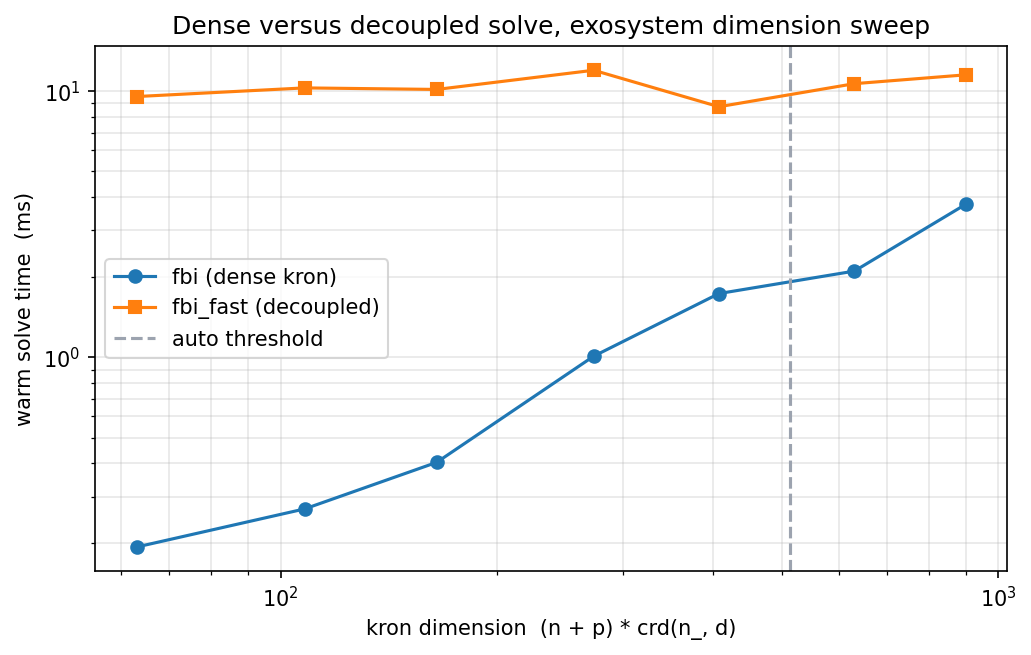
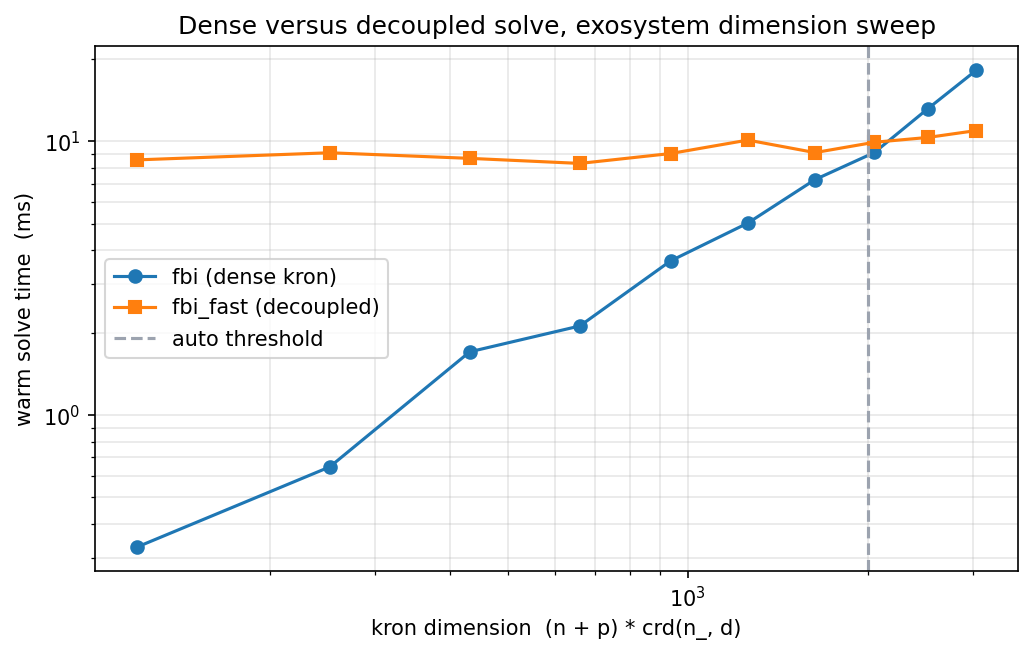
fixed doc and readme

diff --git a/make_figures.py b/make_figures.py
@@ -88,24 +88,25 @@ def build_pendulum():
     return SimpleNamespace(fsys=fsys, fexo=fexo, hsys=hsys, n=n, m=m, p=p,
                            n_=n_, d=d, nsum=nsum, z0=z0, x_0=x_0)
 
-#Scalable nilpotent system, small fixed plant with a shift chain exosystem
+#Scalable nilpotent system, fixed plant with a shift chain exosystem
 def build_synth_chain(n_, d):
-    n, m, p = 2, 1, 1
+    n, m, p = 8, 4, 4
     nsum = n + m + n_
-    A = jnp.array([[0.0, 1.0], [-1.0, -0.5]])
-    B = jnp.array([[0.0], [1.0]])
-    C = jnp.array([[1.0, 0.0]])
+    A = 2.0 * jnp.eye(n)
+    B = jnp.concatenate([jnp.eye(m), jnp.zeros((n - m, m))], axis=0)
+    C = jnp.concatenate([jnp.eye(p), jnp.zeros((p, n - p))], axis=1)
+    E = jnp.zeros((n, n_)).at[0, 0].set(1.0)
 
     def fsys(z):
         x = z[:n]; u = z[n:n + m]; w = z[n + m:]
-        return A @ x + B @ u + jnp.array([0.0, w[0]])
+        return A @ x + B @ u + E @ w
 
     def fexo(w):
         return jnp.concatenate([w[1:], jnp.zeros(1)])
 
     def hsys(z):
         x = z[:n]; w = z[n + m:]
-        return C @ x - jnp.array([w[0]])
+        return C @ x - jnp.concatenate([w[:1], jnp.zeros(p - 1)])
 
     return SimpleNamespace(fsys=fsys, fexo=fexo, hsys=hsys, n=n, m=m, p=p,
                            n_=n_, d=d, nsum=nsum, z0=jnp.zeros(nsum), x_0=jnp.zeros(n_))
@@ -262,7 +263,7 @@ def fig_residual_vs_distance():
 
 #Figure 4, solver time versus problem size on one nilpotent family
 def fig_solver_crossover():
-    n_list = [6, 8, 10, 13, 16, 20, 24]
+    n_list = [4, 6, 8, 10, 12, 14, 16, 18, 20, 22]
     d = 2
     kd, t_fbi, t_fast = [], [], []
     for n_ in n_list:
@@ -274,7 +275,7 @@ def fig_solver_crossover():
         h = jax.block_until_ready(tay_h(s.z0))
         fe = jax.block_until_ready(tay_e(s.x_0))
         solver = FBIFast(s.n, s.m, s.p, s.n_, d, fixed=True)
-        reps = 20 if n_ <= 16 else 8
+        reps = 20 if n_ <= 12 else 8
         try:
             tf = _time(lambda: fbi(f, h, fe, s.n, s.m, s.p, s.n_, d), reps)
             tn = _time(lambda: solver.solve(f, h, fe)[:2], reps)
@@ -287,7 +288,7 @@ def fig_solver_crossover():
     plt.figure(figsize=(7, 4.5))
     plt.loglog(kd, t_fbi, "-o", label="fbi (dense kron)")
     plt.loglog(kd, t_fast, "-s", label="fbi_fast (decoupled)")
-    plt.axvline(512, color="#9ca3af", ls="--", label="auto threshold")
+    plt.axvline(20e2, color="#9ca3af", ls="--", label="auto threshold")
     plt.xlabel("kron dimension  (n + p) * crd(n_, d)")
     plt.ylabel("warm solve time  (ms)")
     plt.title("Dense versus decoupled solve, exosystem dimension sweep")

diff --git a/src/NSTJAX/NSTJAX_suite/nstjax.py b/src/NSTJAX/NSTJAX_suite/nstjax.py
@@ -16,7 +16,7 @@ class NSTJAX:
     #User provides the system, then warm starts, then solves at any operating point
     def __init__(self, fsys, fexo, hsys, n, m, p, n_, d,
                  solver="auto", fixed=True, branch="auto", check="off",
-                 auto_threshold=512, reshape=True, store=True, verbose=False):
+                 auto_threshold=20e2, reshape=True, store=True, verbose=False):
         self.fsys, self.fexo, self.hsys = fsys, fexo, hsys
         self.n, self.m, self.p, self.n_, self.d = n, m, p, n_, d
         self.nsum = n + m + n_

diff --git a/README.md b/README.md
@@ -54,9 +54,9 @@ from NSTJAX.NSTJAX_suite.nstjax import NSTJAX
 n, m, p, n_, d = 10, 4, 24, 4, 2
 nsum = n + m + n_
 
-#fsys and hsys take z = concat([x, u, w]); fexo takes the exosystem state w
+#fsys and hsys take z = concat([x, u, x_]); fexo takes the exosystem state w
 def fsys(z): ...
-def fexo(w): ...
+def fexo(x_): ...
 def hsys(z): ...
 
 #Operating point
@@ -71,33 +71,90 @@ th, la = nst.compute_fbi(z0, x_0)
 
 #Evaluate the manifold and feedforward at a batch of exosystem samples
 W = jnp.zeros((256, n_))
-pi = nst.compute_theta(W)
-c = nst.compute_lambda(W)
+tracking_manifold = nst.compute_theta(W) #(samples x n)
+feedforward = nst.compute_lambda(W)      #(samples x m)
 ```
 
 The auto solver routes small systems to the dense solve and large ones to the decoupled solve. The first call compiles, later calls reuse the cached kernels.
 
 ---
 
+## Performance
+
+After warmup the full step, coefficients, solve and inference together, runs at about 12 ms for the drone system with its six derivative exosystem (10 states, 24 exostates, 4 inputs, 4 outputs). This is performed on a laptop with Ryzen 7 8845hs CPU, 32GB RAM, and NVIDIA GeForce RTX 4060 Laptop with 8GB VRAM.
+
+<p align="center">
+  <img src="docs/figures/timing_breakdown.png" width="840" alt="Per step timing breakdown and inference throughput">
+</p>
+
+<p align="center"><em>Per step cost split into coefficients, FBI solve and inference, with inference throughput against batch size.</em></p>
+
+---
+
+## Examples
+
+The repository ships runnable examples for a drone and a double pendulum, at the high level `NSTJAX` interface and a lower level direct solve, plus a world model example that learns the plant online and re-solves FBI on it.
+
+<p align="center">
+  <img src="docs/figures/pendulum_phase.png" width="840" alt="Double pendulum nominal manifold and tracking">
+</p>
+
+<p align="center"><em>Double pendulum: the nominal manifold phase portrait, and the reference tracked on the manifold.</em></p>
+
+### World model learning with FBI
+
+`example_wm_fbi.py` closes the loop around a learned plant. The true pendulum is unknown; the controller starts from a deliberately wrong nominal prior and corrects it with a neural residual, a neural-ODE world model `f_hat(x, u) = f_nominal(x, u) + MLP(x, u)`. Each round runs the same three steps:
+
+1. **Solve.** Taylor expand the current `f_hat` at the operating point and run the FBI solve to get the manifold `theta` and feedforward `lambda` for the learned model, plus a feedback gain by pole placement on its linearization.
+2. **Roll out.** Drive the true system in closed loop with feedforward plus feedback plus a decaying dither, and collect the on-policy transitions.
+3. **Learn.** Aggregate the transitions across rounds and fit the residual MLP by matching a one step RK4 prediction to the next state.
+
+As the world model improves, the FBI solution computed on it approaches the one computed on the true plant, so the learned manifold and feedforward converge to the oracle and the closed loop tracking error drops to the oracle floor.
+
+<p align="center">
+  <img src="docs/figures/world_model_convergence.png" width="840" alt="World model FBI convergence">
+</p>
+
+<p align="center"><em>World model learning: the learned manifold and feedforward errors against the true FBI solution, and the closed loop tracking error converging to the oracle bound.</em></p>
+
+---
+
+## Solution Validation Against Original NST
+
+The solve is cross checked against the original MATLAB NST values when reference arrays are present (`test_fbi_jax.py`), and against the dense Kronecker reference for the decoupled kernels (`test_fbi_fast.py`). The FBI residual measures how well the truncated polynomial solution satisfies the regulator equations at the operating point.
+
+<p align="center">
+  <img src="docs/figures/matlab_error.png" width="840" alt="Relative error against the MATLAB reference">
+</p>
+
+<p align="center"><em>Per coefficient relative error of the float32 solve against the MATLAB NST reference.</em></p>
+
+---
+
+# Additional Information
+
 ## Background
 
 The library targets the **output regulation** problem. A plant, an exosystem driving the reference, and an error output
 
-$$\dot{x} = f(x, u, x_-), \qquad \dot{x}_- = s(x_-), \qquad e = h(x, u, x_-)$$
+$$\dot{x} = f(x, u, \bar{x}), \qquad \dot{\bar{x}} = \bar{f}(\bar{x}), \qquad e = h(x, u, \bar{x})$$
 
-are given, and the goal is to drive the error to zero. The Francis Byrnes Isidori (FBI) regulator equations ask for a manifold `x = theta(x_)` and a feedforward `u = lambda(x_)` satisfying
+are given, and the goal is to drive the error to zero. The Francis Byrnes Isidori (FBI) regulator equations ask for a manifold $x=\theta(\bar{x})$ and a feedforward $u=\lambda(\bar{x})$ satisfying
 
-$$\frac{\partial\, \theta}{\partial x_-}\, s(x_-) = f\big(\theta(x_-), \lambda(x_-), x_-\big), \qquad 0 = h\big(\theta(x_-), \lambda(x_-), x_-\big).$$
+$$f(\theta(\bar{x}),\lambda(\bar{x})) = \frac{\partial \theta}{\partial \bar{x}}(\bar{x})\bar{f}(\bar{x}) \qquad h(\theta(\bar{x}),\bar{x},\lambda(\bar{x})) = 0.$$
 
-The first equation makes the manifold invariant under the combined flow, the second makes the error vanish on it. On this manifold the plant reproduces the reference exactly; the feedforward is what keeps it there.
+The first equation makes the manifold invariant under the combined flow, the second makes the output error vanish on it.
 
-FBIJAX solves these equations by expanding `theta` and `lambda` as truncated polynomial series in `x_` and matching coefficients degree by degree. Degree one is the linear regulator (a Sylvester type system); each higher degree reuses the same left operator with a right hand side assembled from the lower degree coefficients. Because the expansion is taken around an operating point, the result is a local model, valid in a neighborhood. Recomputing it at each operating point keeps that neighborhood centered on the current state.
+Following NST, the FBIJAX component solves these equations by expanding `theta` and `lambda` as truncated polynomial series in `x_` and matching coefficients degree by degree. Degree one is the linear regulator (a Sylvester type system); each higher degree reuses the same left operator with a right hand side assembled from the lower degree coefficients. Because the expansion is taken around an operating point, the result is a local model, valid in a neighborhood. Recomputing it at each operating point keeps that neighborhood centered on the current state.
 
 <p align="center">
-  <img src="docs/figures/residual_vs_distance.png" width="560" alt="FBI residual versus distance from the operating point">
+  <img src="docs/figures/residual_vs_distance_truefbi.png" width="48%" alt="True FBI residual versus distance from the operating point">
+  <img src="docs/figures/residual_vs_distance.png" width="48%" alt="FBI residual versus distance from the operating point">
+  
 </p>
-
-<p align="center"><em>FBI residual against distance from the operating point. A stale solve degrades as the state moves away, while re-solving at each point holds the error down.</em></p>
+<p align="center">
+  <em>(a) FBI solution (b) Fast FBI solution. A stale solve degrades as the state moves away, while re-solving at each point holds the error down.</em>
+</p>
 
 ---
 
@@ -127,10 +184,10 @@ $$M\, W - \mathrm{Sel}\, W\, L^{(k)} = R,$$
 
 where `M` is the combined linear plant and output Jacobian, `Sel` selects the state block, and `L^{(k)}` is the degree `k` Lie operator of the exosystem linear part. The unknown `W` stacks the degree `k` coefficients of `theta` and `lambda`.
 
-- **`fbi`** vectorizes this into the dense Kronecker operator `kron(I, M) - kron(L^T, Sel)` and solves it directly, square systems through a direct solve and non square ones through least squares. The operator has size `(n + p) * crd(n_, d)`, which grows quickly with the exosystem dimension and the degree.
+- **`fbi`** vectorizes this into the dense Kronecker operator `kron(I, M) - kron(L^T, Sel)` and solves it directly, square systems through a direct solve and non square ones through least squares. The operator has size `(n + p) * crd(n_, d)`, which grows quickly with the system dimension and the degree.
 
 - **`fbi_fast`** decouples the equation through the Schur form of the Lie operator and solves per degree, with two branches:
-  - **nilpotent** exosystems (integrator chains, such as the drone's six derivative trajectory generator) use a finite Neumann sum that is exact in a small number of terms,
+  - **nilpotent** exosystems (integrator chains, such as polynomial trajectory generator) use a finite Neumann sum that is exact in a small number of terms,
   - **general** exosystems use complex Schur back substitution, one small `(n + m)` solve per column instead of a single large solve.
 
   With `fixed=True` the exosystem factorization is computed once and reused across operating points, which is the common case in a moving loop. `NSTJAX` routes automatically based on the Kronecker dimension via `auto_threshold`, sending small systems to the dense solve and large ones to the decoupled solve.
@@ -155,78 +212,13 @@ The Lie operator eigenvalues at degree `k` are the degree `k` sums of the exosys
 
 ---
 
-## Performance
-
-After warmup the full step, coefficients, solve and inference together, runs at about 12 ms for the drone with its six derivative exosystem.
-
-<p align="center">
-  <img src="docs/figures/timing_breakdown.png" width="840" alt="Per step timing breakdown and inference throughput">
-</p>
-
-<p align="center"><em>Per step cost split into coefficients, FBI solve and inference, with inference throughput against batch size.</em></p>
-
----
-
-## Modules
-
-| Module | Role |
-| --- | --- |
-| `polylib.py` | Polynomial vector field algebra: monomial bases, composition, directional derivatives, Lie operators |
-| `taylor.py` | JIT compiled Taylor coefficient maps via forward mode differentiation |
-| `fbi.py` | Dense FBI solve through the full Kronecker operator |
-| `fbi_fast.py` | Decoupled FBI solve via exosystem spectral decoupling, with a solvability guard |
-| `decouple.py` | Exosystem Schur factorization and per degree operator spectra |
-| `solvability.py` | Transmission zero based solvability screen |
-| `fbi_eval.py` | Batched evaluation of `theta(x_)` and `lambda(x_)` |
-| `nstjax.py` | High level driver tying maps, solver and inference into one object |
-
----
-
-## Examples
-
-The repository ships runnable examples for a drone and a double pendulum, at the high level `NSTJAX` interface and a lower level direct solve, plus a world model example that learns the plant online and re-solves FBI on it.
-
-<p align="center">
-  <img src="docs/figures/pendulum_phase.png" width="840" alt="Double pendulum nominal manifold and tracking">
-</p>
-
-<p align="center"><em>Double pendulum: the nominal manifold phase portrait, and the reference tracked on the manifold.</em></p>
-
----
-
-### World model learning with FBI
-
-`example_wm_fbi.py` closes the loop around a learned plant. The true pendulum is unknown; the controller starts from a deliberately wrong nominal prior and corrects it with a neural residual, a neural-ODE world model `f_hat(x, u) = f_nominal(x, u) + MLP(x, u)`. Each round runs the same three steps:
-
-1. **Solve.** Taylor expand the current `f_hat` at the operating point and run the FBI solve to get the manifold `theta` and feedforward `lambda` for the learned model, plus a feedback gain by pole placement on its linearization.
-2. **Roll out.** Drive the true system in closed loop with feedforward plus feedback plus a decaying dither, and collect the on-policy transitions.
-3. **Learn.** Aggregate the transitions across rounds and fit the residual MLP by matching a one step RK4 prediction to the next state.
-
-As the world model improves, the FBI solution computed on it approaches the one computed on the true plant, so the learned manifold and feedforward converge to the oracle and the closed loop tracking error drops to the oracle floor.
-
-<p align="center">
-  <img src="docs/figures/world_model_convergence.png" width="840" alt="World model FBI convergence">
-</p>
-
-<p align="center"><em>World model learning: the learned manifold and feedforward errors against the true FBI solution, and the closed loop tracking error converging to the oracle bound.</em></p>
-
----
-
-## Validation
-
-The solve is cross checked against the original MATLAB NST values when reference arrays are present (`test_fbi_jax.py`), and against the dense Kronecker reference for the decoupled kernels (`test_fbi_fast.py`). The FBI residual measures how well the truncated polynomial solution satisfies the regulator equations at the operating point.
-
-<p align="center">
-  <img src="docs/figures/matlab_error.png" width="840" alt="Relative error against the MATLAB reference">
-</p>
-
-<p align="center"><em>Per coefficient relative error of the float32 solve against the MATLAB NST reference.</em></p>
-
 ## References
 
 - A. Isidori and C. I. Byrnes, output regulation of nonlinear systems.
 - B. A. Francis, the linear multivariable regulator problem.
 - A. J. Krener, Nonlinear Systems Toolbox.
+
+---
 
 ## Citation
 Author: otoshuki (gpertin), KAIST.